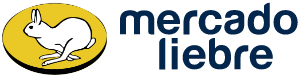
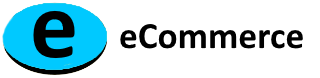
Change site with the new name and brand

diff --git a/public/css/styles.css b/public/css/styles.css
@@ -3,8 +3,8 @@
 
 /*====== Global Variables ======*/
 :root {
-  --yellow: #EAC926;
-  --dark-blue: #03264C;
+  --primary: #e0f5b2;
+  --logo: #B6FF00;
   --light-blue: #1259c3;
   --gray: #666666;
   --light-gray: #ebebeb;

diff --git a/public/css/styles-header.css b/public/css/styles-header.css
@@ -1,6 +1,6 @@
 
 .header-main {
-    background-color: #EAC926;
+    background-color: var(--primary);
     font-family: Roboto;
     display: flex;
     width: 100%;

diff --git a/README.md b/README.md
@@ -1,4 +1,4 @@
-# mercado liebre
+# eCommerce
 
 ## Proyecto de un Comercio Electrónico (eCommerce)
 
